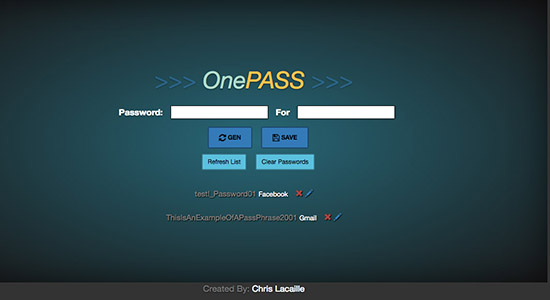
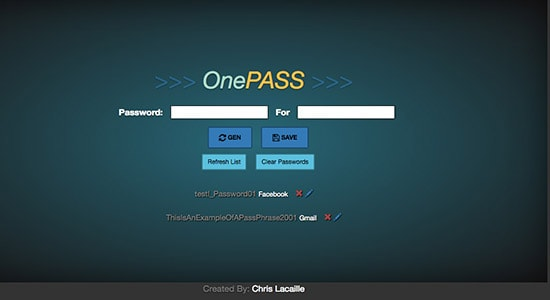
optimize images & delete un-used images

diff --git a/index.html b/index.html
@@ -50,7 +50,7 @@
 	    	<img alt="source-design-logo" class="navbar-brand img-fluid" src="img/source-logo.png" width="120">
 	    	<!-- person icon  -->
 	        <p class="navbar-toggler btn pull-right" data-toggle="collapse" data-target="#navbar-header" aria-hidden="true">
-	        	My Info
+	        	Contact - Info
 	        </p>
 
 	    </div>
@@ -61,10 +61,7 @@
 		<div class="container-fluid">
 			<div class="row">
 					<!-- Header Title -->
-					<!-- <h1 id="site-title" class="display-3 text-sm-center">WEB <span class="text-muted">DESIGNER</span> &amp; DEVELOPER</h1> -->
 					<h1 id="site-title" class="display-5 text-sm-center"></h1>
-					<!-- my work link -->
-					<!-- <a id="work-link" href="#recent-work-heading" class="btn btn-lg">Recent Work</a> -->
 					<!-- Astronaut -->
 					<div id="astronaut">
 						<img src="img/astronaut-cutout.png" alt="astronaut floating around">
@@ -98,8 +95,8 @@
 		<div class="row">
 			<div id="about">
 				<div class="col-md-12 col-lg-6">
-					<h1 class="display-6 font-italic m-b-2" id="about_text">I'm Chris Lacaille</h1>
-					<h1 class="text-muted display-3" id="about_text2">I <span class="text-info">design</span> &amp; <span class="text-info">build</span> custom websites and apps!</h1>
+					<h1 class="display-6 font-italic m-b-2" id="about_text">Hey there...</h1>
+					<h1 class="text-muted display-3" id="about_text2">I <span class="text-info">love creating</span> custom websites and apps!</h1>
 					<h1 class="display-5 font-white hidden-xs-down m-t-2" style="color:white;" id="about_text3">Let's collaborate!</h1>
 				</div>
 				<div class="col-md-6 col-sm-12">
@@ -446,25 +443,6 @@
 <script src="https://maxcdn.bootstrapcdn.com/bootstrap/4.0.0-alpha.2/js/bootstrap.min.js" integrity="sha384-vZ2WRJMwsjRMW/8U7i6PWi6AlO1L79snBrmgiDpgIWJ82z8eA5lenwvxbMV1PAh7" crossorigin="anonymous"></script>
 
 <script src="js/typed.js"></script>
-<script>
-  $(function(){
-      $("#site-title").typed({
-        strings: ["My name is <span class='text-muted'>Chris LaCaille</span>",
-        		  "I <span class='text-muted'>design</span> websites... ^1000 and <span class='text-muted'>build</span> them",
-        		  "Check out my work!<br><a id='work-link' href='#recent-work-heading' class='btn btn-lg'>Recent Work</a>"
-        		  ],
-        typeSpeed: 0,
-        startDelay: 1000,
-        callback: function() {
-        	smoothScroll();
-        }
-      });
-
-  });
-</script>
-
-<!-- Font Awesome -->
-<!-- <script src="https://use.fontawesome.com/f0471aa1ab.js"></script> -->
 
 <!--CDN links for TweenLite-->
 <script src="https://cdnjs.cloudflare.com/ajax/libs/gsap/1.18.5/plugins/CSSPlugin.min.js"></script>
@@ -476,13 +454,5 @@
 </body>
 </html>
 
-
-
-<!-- <script src="js/jquery-2.2.4.js"></script>
-<script src="js/bootstrap.min.js"></script> -->
-<!-- <script src="js/jquery-ui.min.js"></script> -->
-
-<!--CDN link for  TweenMax-->
-<!-- <script src="http://cdnjs.cloudflare.com/ajax/libs/gsap/1.18.4/TweenMax.min.js"></script> -->
 
 

diff --git a/js/main.js b/js/main.js
@@ -20,6 +20,18 @@ var contactForm = $('form'),
 	userMsg = $('#userMsg');
 	$formMessages = $('#form-messages');
 
+	$("#site-title").typed({
+		strings: ["My name is <span class='text-primary'>Chris LaCaille</span>",
+				  "I <span class='text-primary'>design</span> websites... ^600 and <span class='text-primary'>build</span> them",
+				  "Check out my work!<br><a id='work-link' href='#recent-work-heading' class='btn btn-lg'>Recent Work</a>"
+				  ],
+		typeSpeed: 0,
+		startDelay: 1000,
+		callback: function() {
+			smoothScroll();
+		}
+	});
+
 // Smoother scrolling 
 smoothScroll =  function() {
 	$('a[href*=#]').click(function() {
@@ -38,7 +50,7 @@ smoothScroll =  function() {
 }
 
 
-// global jumbotron
+// jumbotron mouse events
 $jumbotron.mousemove( function(e) {
    mouseX = e.pageX ;
    mouseY = e.pageY - 50; 
@@ -46,9 +58,9 @@ $jumbotron.mousemove( function(e) {
 // Loop over astronaut Tween animation
 // setInterval & Tween ( or css() ) is smoother than animation()
 var loop = setInterval(function(){
-	// Damper on 13 .. can change ... higher is slower
-	xp += (mouseX - xp) / 13;
-	yp += (mouseY - yp) / 13;
+	// Damper on 10 .. can change ... higher is slower
+	xp += (mouseX - xp) / 10;
+	yp += (mouseY - yp) / 10;
     if ( xp > 50 && 
 		 xp < ($window.width() - 150) && 
 		 yp > 0 && 
@@ -82,6 +94,7 @@ $window.on('scroll', function() {
 	}
 });
 
+// Project Imgs HOVER
 $projectImgs.on('mouseover', function() {
 	TweenLite.set($(this), {className: '+=contrast150'});
 });
@@ -91,6 +104,7 @@ $projectImgs.on('mouseleave', function() {
 
 
 // FORM AJAX REQUEST
+
 $('form').on('submit', function(e) {
 	e.preventDefault();
 	// alert("Thanks! I'll get back to you as soon as possible.");
@@ -129,7 +143,7 @@ $('form').on('submit', function(e) {
 	
 });
 
-
+// END AJAX
 
 
 

diff --git a/css/styles.css b/css/styles.css
@@ -38,7 +38,7 @@ a:hover, a:active, a:visited, a:focus {
 /* Jumbotron */
 .jumbotron {
 	position: relative;
-	background-image: url(../img/patterns/mountains-space.jpg);
+	background-image: url(../img/space3.jpg);
 	background-size: cover;
 	background-repeat: no-repeat;
 	background-position:50% 8%;
@@ -386,6 +386,9 @@ textarea {
 	}
 	html, body {
 		font-size: 14px;
+	}
+	#astronaught {
+		width: 100px;
 	}
 
 }
